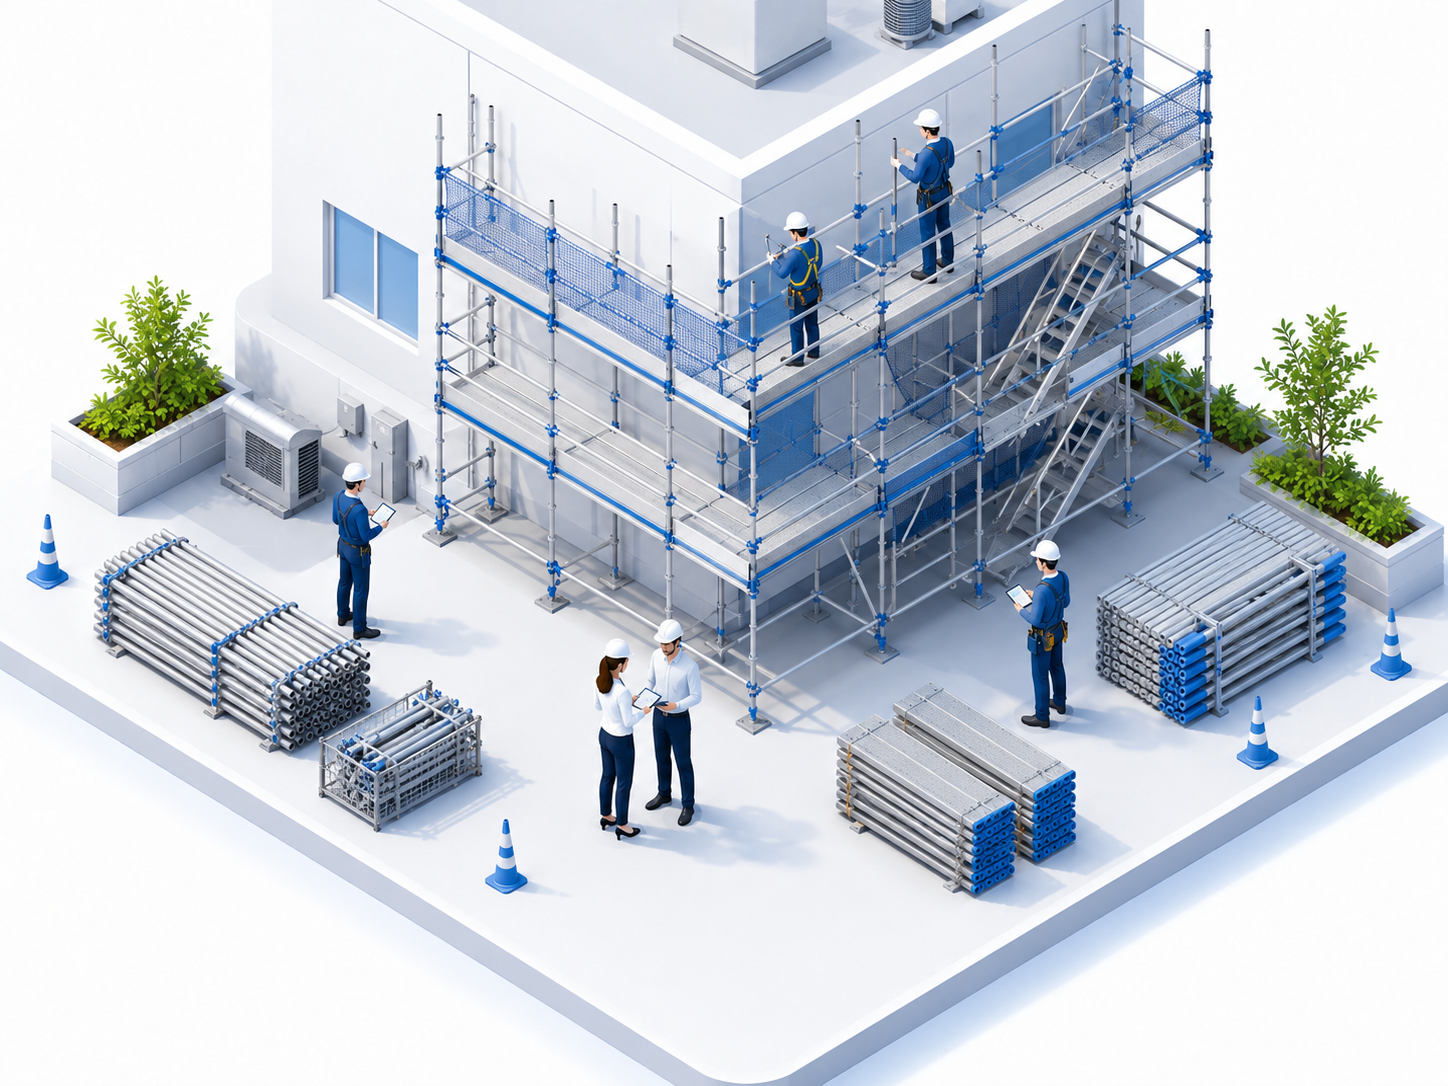
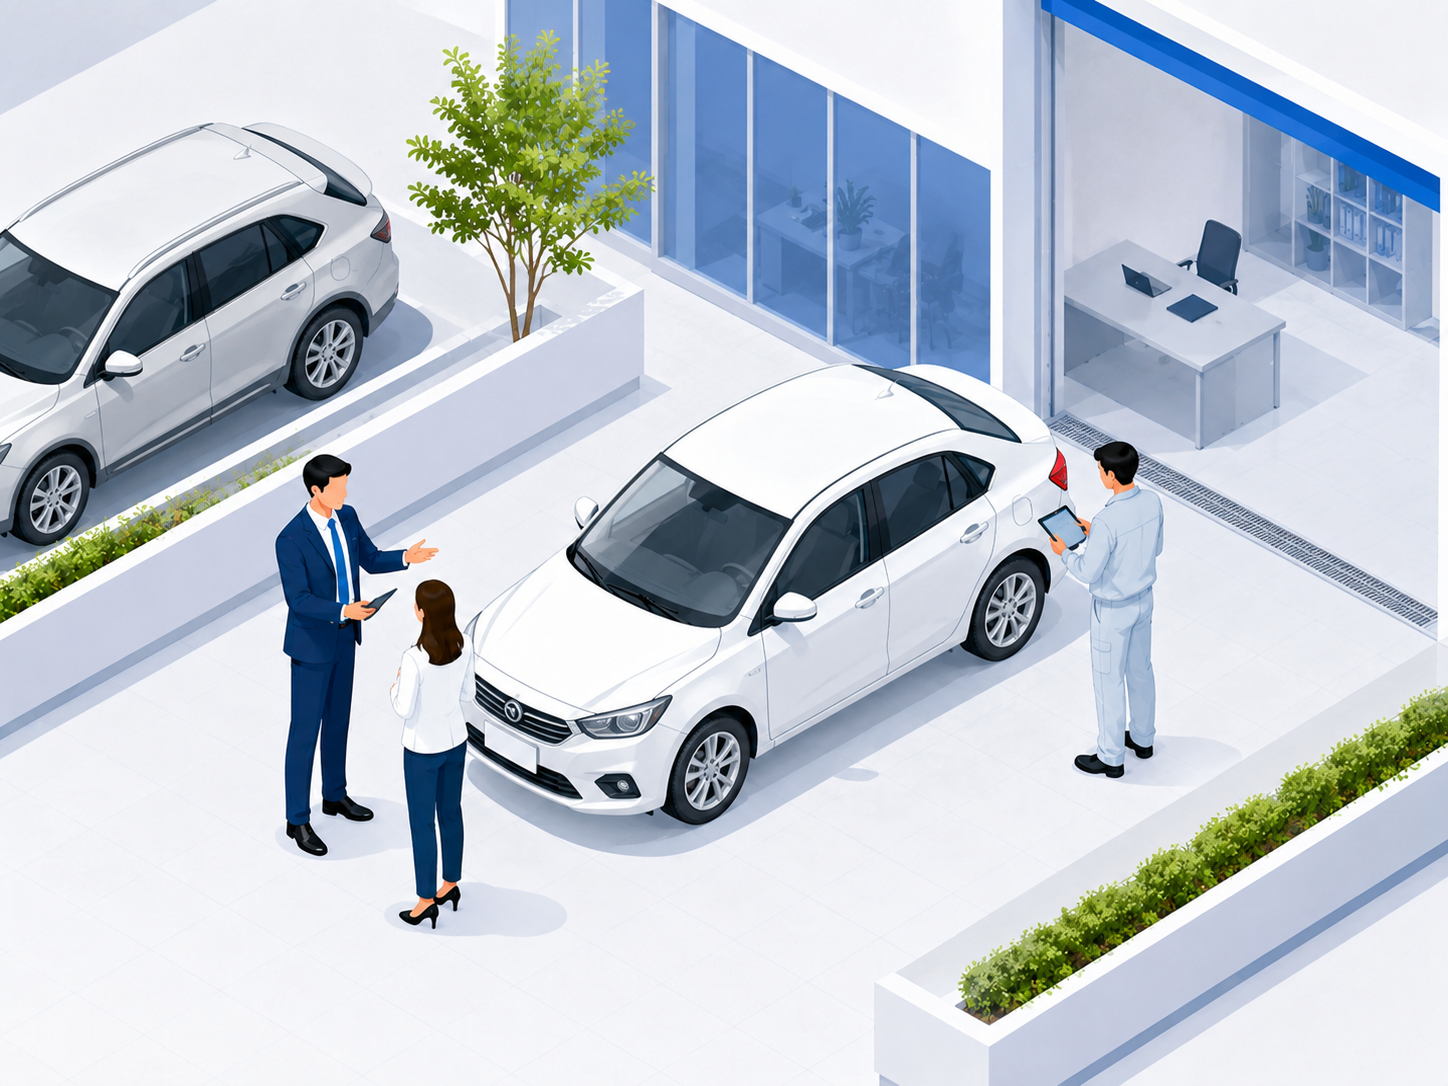
TOP/Serviceの構成調整とSolvia紹介カード実装

diff --git a/index.html b/index.html
@@ -242,13 +242,17 @@
     .section-heading { font-family:'Noto Serif JP',serif; font-weight:700; font-size:1.9rem; color:var(--navy); text-align:center; margin-bottom:1.15rem; line-height:1.55; }
     .section-sub { font-size:1rem; font-weight:500; color:var(--g500); text-align:center; margin-bottom:4rem; line-height:1.9; }
     .services-grid { display:grid; grid-template-columns:repeat(3,1fr); gap:2rem; }
+    .service-card-wide { grid-column:1 / -1; }
     .service-card { display:flex; flex-direction:column; justify-content:space-between; }
     .service-card-body { background:#fff; border:1px solid #dbe4ee; border-radius:10px; overflow:hidden; margin-bottom:.8rem; flex:1; display:flex; flex-direction:column; box-shadow:0 2px 6px rgba(18,48,84,.04); transition:transform .3s ease, box-shadow .3s ease, border-color .3s ease; }
     .service-photo { width:100%; height:192px; object-fit:cover; flex-shrink:0; transition:transform .3s ease; }
     .service-info { padding:20px 20px 12px; flex:1; display:flex; flex-direction:column; justify-content:flex-start; background:#fff; border-bottom:10px solid transparent; }
     .service-info.blue { border-bottom-color:#0F4C81; }
+    .service-info.sky { border-bottom-color:#66A9CF; }
     .service-info.yellow { border-bottom-color:#D8BE6A; }
     .service-info.teal { border-bottom-color:#078C95; }
+    .service-info.coral { border-bottom-color:#C78478; }
+    .service-info.indigo { border-bottom-color:#0F4C81; }
     .service-info.gray { border-bottom-color:#9AA5B1; justify-content:flex-start; }
     #page-top .service-info.s06 {
       border-bottom-color:#6F7EA6;
@@ -263,9 +267,16 @@
     #page-top .service-info.s06 .service-other-list svg path { stroke:#6F7EA6; }
     .service-num { font-family:'Cormorant Garamond',serif; font-size:.75rem; letter-spacing:1.68px; margin-bottom:8px; }
     .service-info.blue .service-num,
+    .service-info.sky .service-num,
     .service-info.yellow .service-num,
     .service-info.teal .service-num,
+    .service-info.coral .service-num,
+    .service-info.indigo .service-num,
     .service-info.gray .service-num { color:#7b8ea5; font-size:.6875rem; letter-spacing:1.5px; }
+    .service-info.sky .service-num { color:#6B98BA; }
+    .service-info.yellow .service-num { color:#A88B3A; }
+    .service-info.teal .service-num { color:#2A7F86; }
+    .service-info.coral .service-num { color:#9B7069; }
     .service-title { font-family:'Noto Serif JP',serif; font-weight:700; font-size:1.15rem; line-height:1.55; margin-bottom:10px; color:var(--navy); }
     .service-desc { font-size:.875rem; line-height:1.72; color:var(--g600); margin-bottom:14px; }
     .service-link { display:inline-flex; align-items:center; gap:4px; font-size:.8125rem; font-weight:500; color:#516476; border-bottom:1px solid #cad7e5; padding:0 0 6px; transition:border-color .28s, color .28s; background:none; border-left:none; border-right:none; border-top:none; margin-top:auto; align-self:flex-end; }
@@ -280,16 +291,31 @@
     .service-card:focus-within .service-photo { transform:scale(1.035); }
     .service-card:hover .service-info.blue,
     .service-card:focus-within .service-info.blue { border-bottom-color:#125891; }
+    .service-card:hover .service-info.sky,
+    .service-card:focus-within .service-info.sky { border-bottom-color:#5D9EC4; }
     .service-card:hover .service-info.yellow,
     .service-card:focus-within .service-info.yellow { border-bottom-color:#dfc677; }
     .service-card:hover .service-info.teal,
     .service-card:focus-within .service-info.teal { border-bottom-color:#0a99a3; }
+    .service-card:hover .service-info.coral,
+    .service-card:focus-within .service-info.coral { border-bottom-color:#B97467; }
+    .service-card:hover .service-info.indigo,
+    .service-card:focus-within .service-info.indigo { border-bottom-color:#125891; }
     .service-card:hover .service-info.gray,
     .service-card:focus-within .service-info.gray { border-bottom-color:#a8b2bd; }
     #page-top .service-card:hover .service-info.s06,
     #page-top .service-card:focus-within .service-info.s06 { border-bottom-color:#7b89b0; }
     .service-card:hover .service-link svg,
     .service-card:focus-within .service-link svg { transform:translateX(3px); }
+    .service-card-wide .service-info { padding-bottom:16px; }
+    .service-info.s07-compact { padding:14px 20px 11px; }
+    .s07-layout { display:grid; grid-template-columns:1.12fr .95fr .95fr auto; gap:18px; align-items:center; }
+    .s07-col-head .service-num { margin-bottom:6px; }
+    .s07-col-head .service-title { margin-bottom:0; line-height:1.45; }
+    .s07-compact .service-other-list { margin:0; }
+    .s07-compact .service-other-list li { padding:3px 0; font-size:.96rem; line-height:1.6; }
+    .s07-link-col { display:flex; align-items:flex-end; justify-content:flex-end; }
+    .s07-link { margin-top:0; align-self:auto; white-space:nowrap; }
 
     /* ===== POINTS ===== */
     .points { position:relative; border-top:1px solid var(--g300); border-bottom:1px solid var(--g300); padding:97px 208px 161px; overflow:hidden; background:linear-gradient(180deg, #f4fbff 0%, #e9f6ff 100%); }
@@ -533,13 +559,13 @@
     .svc-detail__box--points { background:#f7fbff; border-color:#d7e4f0; }
     .svc-detail__list.tight li { font-size:.90625rem; line-height:1.65; }
     /* SERVICE accent system (01-06) */
-    #service-01 { --service-accent:#0f4c81; --service-accent-soft:#f4f8fc; --service-accent-border:#d6e3f0; --service-accent-icon:#2b6b9f; }
+    #service-01 { --service-accent:#66A9CF; --service-accent-soft:#f3f9fd; --service-accent-border:#d4e8f4; --service-accent-icon:#5d9ec4; }
     #service-02 { --service-accent:#d8be6a; --service-accent-soft:#fcf8ee; --service-accent-border:#eadfbd; --service-accent-icon:#a2832f; }
-    #service-03 { --service-accent:#0f4c81; --service-accent-soft:#f4f8fc; --service-accent-border:#d6e3f0; --service-accent-icon:#2b6b9f; }
+    #service-03 { --service-accent:#66A9CF; --service-accent-soft:#f3f9fd; --service-accent-border:#d4e8f4; --service-accent-icon:#5d9ec4; }
     #service-04 { --service-accent:#078c95; --service-accent-soft:#f1fafb; --service-accent-border:#cfe9eb; --service-accent-icon:#12727a; }
-    #service-05 { --service-accent:#078c95; --service-accent-soft:#f1fafb; --service-accent-border:#cfe9eb; --service-accent-icon:#12727a; }
+    #service-05 { --service-accent:#C78478; --service-accent-soft:#fcf6f5; --service-accent-border:#edd9d5; --service-accent-icon:#b97467; }
     #service-06 {
-      --service-accent:#8b97b8;
+      --service-accent:#6F7EA6;
       --service-accent-soft:#f4f6fb;
       --service-accent-border:#d8dfec;
       --service-accent-icon:#6f7ea6;
@@ -615,13 +641,125 @@
     #page-service .svc01-body .svc-detail__img-panel-text { color:#556678; line-height:1.9; font-size:.9375rem; }
     #service-06 .svc01-body { align-items:start; }
     #service-06 .svc01-body .svc-detail__img { align-self:start; }
-    #service-06 .svc01-body .svc-detail__img { border-color:#fff; }
+    #service-06 .svc01-body .svc-detail__img { border-color:var(--service-accent-border); }
     #service-06 .svc01-body .svc-detail__img { padding:10px 10px 20px; background:#fff; }
     #service-06 .svc01-body .svc-detail__img img { height:auto; object-fit:contain; transform:scale(1.06); transform-origin:center center; }
     #service-06.svc-detail { border-bottom:none; }
     #service-01.svc-detail { padding-bottom:68px; }
+    #service-05 .svc-partner-cta {
+      margin-top:12px;
+      padding:12px 14px 12px 46px;
+      min-height:108px;
+      border:1px solid color-mix(in srgb, var(--service-accent-border) 84%, #fff 16%);
+      border-left:none;
+      border-radius:7px;
+      background:#fff;
+      position:relative;
+      overflow:hidden;
+    }
+    #service-05 .svc-partner-label {
+      position:absolute;
+      left:0;
+      top:0;
+      bottom:0;
+      width:34px;
+      margin:0;
+      writing-mode:vertical-rl;
+      text-orientation:mixed;
+      display:flex;
+      align-items:center;
+      justify-content:center;
+      padding:8px 0;
+      font-size:.66rem;
+      letter-spacing:.08em;
+      font-weight:700;
+      line-height:1.2;
+      color:#fff;
+      background:color-mix(in srgb, var(--service-accent) 88%, #fff 12%);
+      border-radius:0;
+    }
+    #service-05 .svc-partner-card {
+      display:grid;
+      grid-template-columns:120px 1fr;
+      gap:12px;
+      align-items:center;
+      margin-top:8px;
+    }
+    #service-05 .svc-partner-info {
+      display:flex;
+      flex-direction:column;
+      justify-content:center;
+    }
+    #service-05 .svc-partner-logo {
+      border:none;
+      border-radius:6px;
+      background:#fff;
+      padding:6px;
+    }
+    #service-05 .svc-partner-logo img {
+      display:block;
+      width:100%;
+      height:auto;
+    }
+    #service-05 .svc-partner-name {
+      font-size:.94rem;
+      font-weight:700;
+      color:#3d4f62;
+      line-height:1.4;
+      margin-bottom:4px;
+      white-space:nowrap;
+    }
+    #service-05 .svc-partner-desc {
+      font-size:.875rem;
+      color:#5f6f83;
+      line-height:1.62;
+      margin-bottom:8px;
+    }
+    #service-05 .svc-partner-link {
+      display:inline-flex;
+      align-items:center;
+      gap:4px;
+      font-size:.86rem;
+      font-weight:600;
+      color:#8f5e57;
+      text-decoration:underline;
+      text-decoration-color:color-mix(in srgb, var(--service-accent-border) 88%, #fff 12%);
+      text-underline-offset:4px;
+      text-decoration-thickness:1px;
+    }
+    #service-05 .svc-partner-link:hover {
+      color:#81534d;
+      text-decoration-color:color-mix(in srgb, var(--service-accent) 42%, #fff 58%);
+    }
+    #service-05 .svc-partner-link:focus-visible {
+      outline:2px solid color-mix(in srgb, var(--service-accent) 52%, #fff 48%);
+      outline-offset:2px;
+      border-radius:2px;
+    }
+    @media (max-width:768px) {
+      #service-05 .svc-partner-cta {
+        padding-left:44px;
+      }
+      #service-05 .svc-partner-card {
+        grid-template-columns:1fr;
+        gap:10px;
+      }
+      #service-05 .svc-partner-logo {
+        max-width:180px;
+      }
+    }
     .svc-note { background:var(--g100); border:1px solid var(--g300); border-radius:6px; padding:16px 20px; font-size:.875rem; color:var(--g600); line-height:1.7; }
     .svc-note strong { display:block; font-size:.875rem; color:var(--navy); margin-bottom:4px; }
+    #page-service .svc-note.svc-note--web {
+      background:#f4f8fc;
+      border-color:#d6e3f0;
+      border-left:3px solid #3F6692;
+    }
+    #page-service .svc-note.svc-note--web a {
+      color:#2f5c8d;
+      text-decoration-color:#9db7d4;
+      text-underline-offset:3px;
+    }
 
     /* ===== ABOUT PAGE ===== */
     .about-story {
@@ -829,6 +967,10 @@
       .problems-grid { grid-template-columns:1fr; }
       .services { padding:60px 40px; }
       .services-grid { grid-template-columns:1fr 1fr; }
+      .service-card-wide { grid-column:1 / -1; }
+      .s07-layout { grid-template-columns:1fr 1fr; gap:14px 20px; align-items:start; }
+      .s07-col-head { grid-column:1 / -1; }
+      .s07-link-col { grid-column:1 / -1; justify-content:flex-start; }
       .points { padding:60px 40px 80px; }
       .points-flow { flex-direction:column; }
       .points-arrow { transform:rotate(90deg); }
@@ -946,6 +1088,11 @@
       .points-box-list { gap:8px; }
       .points-box-list li { font-size:.9rem; line-height:1.65; }
       .services-grid { grid-template-columns:1fr; }
+      .service-card-wide { grid-column:auto; }
+      .s07-layout { grid-template-columns:1fr; gap:8px; }
+      .s07-col-head { grid-column:auto; }
+      .service-info.s07-compact { padding:12px 14px 10px; }
+      .s07-link-col { grid-column:auto; justify-content:flex-start; }
       .flow-card { padding:26px 20px; }
       .flow-step { grid-template-columns:60px 108px minmax(0,1fr); justify-content:center; column-gap:14px; padding:18px 0 22px; }
       .flow-step-num, .flow-step-media { min-height:111px; }
@@ -1327,12 +1474,13 @@
     <h2 class="section-heading">対応可能な相談領域</h2>
     <p class="section-sub">産廃・リサイクル、工事・設備を中心に<br class="sp-only">幅広くご相談いただけます</p>
     <div class="services-grid">
-      <div class="service-card"><div class="service-card-body"><img src="assets/service_01.png" alt="建設廃材・焼却物処分" class="service-photo"><div class="service-info blue"><div class="service-num">SERVICE 01</div><h3 class="service-title">建設廃材・焼却物処分</h3><p class="service-desc">処分先・相談先のご案内</p><button onclick="navigate('service','service-01')" class="service-link">詳細を見る <svg width="16" height="16" viewBox="0 0 16 16" fill="none"><path d="M3 8h10M9 4.5l4 3.5-4 3.5" stroke="#516476" stroke-width="1.5" stroke-linecap="round" stroke-linejoin="round"/></svg></button></div></div></div>
+      <div class="service-card"><div class="service-card-body"><img src="assets/service_01.png" alt="建設廃材・焼却物処分" class="service-photo"><div class="service-info sky"><div class="service-num">SERVICE 01</div><h3 class="service-title">建設廃材・焼却物処分</h3><p class="service-desc">処分先・相談先のご案内</p><button onclick="navigate('service','service-01')" class="service-link">詳細を見る <svg width="16" height="16" viewBox="0 0 16 16" fill="none"><path d="M3 8h10M9 4.5l4 3.5-4 3.5" stroke="#516476" stroke-width="1.5" stroke-linecap="round" stroke-linejoin="round"/></svg></button></div></div></div>
       <div class="service-card"><div class="service-card-body"><img src="assets/service_02.png" alt="太陽光パネル関連" class="service-photo"><div class="service-info yellow"><div class="service-num">SERVICE 02</div><h3 class="service-title">太陽光パネル関連</h3><p class="service-desc">設置・撤去・処分に関するご相談</p><button onclick="navigate('service','service-02')" class="service-link">詳細を見る <svg width="16" height="16" viewBox="0 0 16 16" fill="none"><path d="M3 8h10M9 4.5l4 3.5-4 3.5" stroke="#516476" stroke-width="1.5" stroke-linecap="round" stroke-linejoin="round"/></svg></button></div></div></div>
-      <div class="service-card"><div class="service-card-body"><img src="assets/service_03.png" alt="廃油・塩ビ樹脂廃材買取" class="service-photo"><div class="service-info blue"><div class="service-num">SERVICE 03</div><h3 class="service-title">廃油・塩ビ樹脂廃材買取</h3><p class="service-desc">買取・リサイクルに関するご相談</p><button onclick="navigate('service','service-03')" class="service-link">詳細を見る <svg width="16" height="16" viewBox="0 0 16 16" fill="none"><path d="M3 8h10M9 4.5l4 3.5-4 3.5" stroke="#516476" stroke-width="1.5" stroke-linecap="round" stroke-linejoin="round"/></svg></button></div></div></div>
+      <div class="service-card"><div class="service-card-body"><img src="assets/service_03.png" alt="廃油・塩ビ樹脂廃材買取" class="service-photo"><div class="service-info sky"><div class="service-num">SERVICE 03</div><h3 class="service-title">廃油・塩ビ樹脂廃材買取</h3><p class="service-desc">買取・リサイクルに関するご相談</p><button onclick="navigate('service','service-03')" class="service-link">詳細を見る <svg width="16" height="16" viewBox="0 0 16 16" fill="none"><path d="M3 8h10M9 4.5l4 3.5-4 3.5" stroke="#516476" stroke-width="1.5" stroke-linecap="round" stroke-linejoin="round"/></svg></button></div></div></div>
       <div class="service-card"><div class="service-card-body"><img src="assets/service_04.png" alt="電気工事" class="service-photo"><div class="service-info teal"><div class="service-num">SERVICE 04</div><h3 class="service-title">電気工事</h3><p class="service-desc">設備まわりの工事相談・依頼先のご案内</p><button onclick="navigate('service','service-04')" class="service-link">詳細を見る <svg width="16" height="16" viewBox="0 0 16 16" fill="none"><path d="M3 8h10M9 4.5l4 3.5-4 3.5" stroke="#516476" stroke-width="1.5" stroke-linecap="round" stroke-linejoin="round"/></svg></button></div></div></div>
-      <div class="service-card"><div class="service-card-body"><img src="assets/service_05.png" alt="足場工事" class="service-photo"><div class="service-info teal"><div class="service-num">SERVICE 05</div><h3 class="service-title">足場工事</h3><p class="service-desc">足場計画や施工相談・依頼先のご案内</p><button onclick="navigate('service','service-05')" class="service-link">詳細を見る <svg width="16" height="16" viewBox="0 0 16 16" fill="none"><path d="M3 8h10M9 4.5l4 3.5-4 3.5" stroke="#516476" stroke-width="1.5" stroke-linecap="round" stroke-linejoin="round"/></svg></button></div></div></div>
-      <div class="service-card"><div class="service-card-body"><div class="service-info gray s06"><div class="service-num">SERVICE 06</div><h3 class="service-title">その他の相談領域</h3><ul class="service-other-list"><li><svg width="16" height="16" viewBox="0 0 16 16" fill="none"><circle cx="8" cy="8" r="7" stroke="#2d83cc" stroke-width="1.2"/><path d="M5 8l2 2 4-4" stroke="#2d83cc" stroke-width="1.2" stroke-linecap="round" stroke-linejoin="round"/></svg>お片付け</li><li><svg width="16" height="16" viewBox="0 0 16 16" fill="none"><circle cx="8" cy="8" r="7" stroke="#2d83cc" stroke-width="1.2"/><path d="M5 8l2 2 4-4" stroke="#2d83cc" stroke-width="1.2" stroke-linecap="round" stroke-linejoin="round"/></svg>粗大ゴミ回収</li><li><svg width="16" height="16" viewBox="0 0 16 16" fill="none"><circle cx="8" cy="8" r="7" stroke="#2d83cc" stroke-width="1.2"/><path d="M5 8l2 2 4-4" stroke="#2d83cc" stroke-width="1.2" stroke-linecap="round" stroke-linejoin="round"/></svg>遺品整理</li><li><svg width="16" height="16" viewBox="0 0 16 16" fill="none"><circle cx="8" cy="8" r="7" stroke="#2d83cc" stroke-width="1.2"/><path d="M5 8l2 2 4-4" stroke="#2d83cc" stroke-width="1.2" stroke-linecap="round" stroke-linejoin="round"/></svg>中古車関連事業</li><li><svg width="16" height="16" viewBox="0 0 16 16" fill="none"><circle cx="8" cy="8" r="7" stroke="#2d83cc" stroke-width="1.2"/><path d="M5 8l2 2 4-4" stroke="#2d83cc" stroke-width="1.2" stroke-linecap="round" stroke-linejoin="round"/></svg>WEB制作（HP・バナー・LP）</li></ul><button onclick="navigate('service','service-06')" class="service-link">詳細を見る <svg width="16" height="16" viewBox="0 0 16 16" fill="none"><path d="M3 8h10M9 4.5l4 3.5-4 3.5" stroke="#516476" stroke-width="1.5" stroke-linecap="round" stroke-linejoin="round"/></svg></button></div></div></div>
+      <div class="service-card"><div class="service-card-body"><img src="assets/service_05.png" alt="中古車販売・買取" class="service-photo"><div class="service-info coral"><div class="service-num">SERVICE 05</div><h3 class="service-title">中古車販売・買取</h3><p class="service-desc">購入・買い替え・買取のご相談</p><button onclick="navigate('service','service-05')" class="service-link">詳細を見る <svg width="16" height="16" viewBox="0 0 16 16" fill="none"><path d="M3 8h10M9 4.5l4 3.5-4 3.5" stroke="#516476" stroke-width="1.5" stroke-linecap="round" stroke-linejoin="round"/></svg></button></div></div></div>
+      <div class="service-card"><div class="service-card-body"><img src="assets/service_06.png" alt="WEB制作" class="service-photo"><div class="service-info indigo"><div class="service-num">SERVICE 06</div><h3 class="service-title">WEB制作</h3><p class="service-desc">HP・バナー・LP制作のご相談</p><a href="web-production.html" class="service-link">詳細を見る <svg width="16" height="16" viewBox="0 0 16 16" fill="none"><path d="M3 8h10M9 4.5l4 3.5-4 3.5" stroke="#516476" stroke-width="1.5" stroke-linecap="round" stroke-linejoin="round"/></svg></a></div></div></div>
+      <div class="service-card service-card-wide"><div class="service-card-body"><div class="service-info gray s06 s07-compact"><div class="s07-layout"><div class="s07-col s07-col-head"><div class="service-num">SERVICE 07</div><h3 class="service-title">その他の相談領域</h3></div><div class="s07-col"><ul class="service-other-list"><li><svg width="16" height="16" viewBox="0 0 16 16" fill="none"><circle cx="8" cy="8" r="7" stroke="#2d83cc" stroke-width="1.2"/><path d="M5 8l2 2 4-4" stroke="#2d83cc" stroke-width="1.2" stroke-linecap="round" stroke-linejoin="round"/></svg>足場工事</li><li><svg width="16" height="16" viewBox="0 0 16 16" fill="none"><circle cx="8" cy="8" r="7" stroke="#2d83cc" stroke-width="1.2"/><path d="M5 8l2 2 4-4" stroke="#2d83cc" stroke-width="1.2" stroke-linecap="round" stroke-linejoin="round"/></svg>粗大ゴミ回収</li></ul></div><div class="s07-col"><ul class="service-other-list"><li><svg width="16" height="16" viewBox="0 0 16 16" fill="none"><circle cx="8" cy="8" r="7" stroke="#2d83cc" stroke-width="1.2"/><path d="M5 8l2 2 4-4" stroke="#2d83cc" stroke-width="1.2" stroke-linecap="round" stroke-linejoin="round"/></svg>お片付け</li><li><svg width="16" height="16" viewBox="0 0 16 16" fill="none"><circle cx="8" cy="8" r="7" stroke="#2d83cc" stroke-width="1.2"/><path d="M5 8l2 2 4-4" stroke="#2d83cc" stroke-width="1.2" stroke-linecap="round" stroke-linejoin="round"/></svg>遺品整理</li></ul></div><div class="s07-link-col"><button onclick="navigate('service','service-06')" class="service-link s07-link">詳細を見る <svg width="16" height="16" viewBox="0 0 16 16" fill="none"><path d="M3 8h10M9 4.5l4 3.5-4 3.5" stroke="#516476" stroke-width="1.5" stroke-linecap="round" stroke-linejoin="round"/></svg></button></div></div></div></div></div>
     </div>
   </div>
 </section>
@@ -1462,7 +1610,7 @@
 <!-- ================= SERVICEページ ================= -->
 <div id="page-service" class="page-content hidden">
   <div class="pg-hero"><span class="pg-hero__en">SERVICE</span><span class="pg-hero__ja">相談できること</span></div>
-  <div class="svc-intro"><h2><span class="svc-intro-main">産廃・リサイクル、<br class="sp-only">工事・設備</span><span class="svc-intro-tail">まわりの</span><br class="pc-only">「どこに相談すればいい？」<br class="sp-only">を整理してつなぎます。</h2><p>建設廃材・焼却物処分、太陽光パネル関連、廃油・塩ビ樹脂廃材買取、電気工事、足場工事を中心に、事業者様のお困りごとを丁寧にヒアリングし、内容に応じて必要な専門事業者・提携先へおつなぎします。</p></div>
+  <div class="svc-intro"><h2><span class="svc-intro-main">産廃・リサイクル、<br class="sp-only">工事・設備</span><span class="svc-intro-tail">まわりの</span><br class="pc-only">「どこに相談すればいい？」<br class="sp-only">を整理してつなぎます。</h2><p>建設廃材・焼却物処分、太陽光パネル関連、廃油・塩ビ樹脂廃材買取、電気工事、中古車販売・買取を中心に、事業者様のお困りごとを丁寧にヒアリングし、内容に応じて必要な専門事業者・提携先へおつなぎします。</p></div>
 
   <div id="service-01" class="svc-detail">
     <div class="svc-detail__inner">
@@ -1612,31 +1760,45 @@
     <div class="svc-detail__inner">
       <div class="svc-detail__body svc01-head">
         <span class="svc-detail__num">SERVICE 05</span>
-        <h3 class="svc-detail__title">足場工事</h3>
-        <p class="svc-detail__desc">工事現場や建物まわりの足場工事について、条件や現場状況を整理し、対応可能な専門先へおつなぎします。</p>
+        <h3 class="svc-detail__title">中古車販売・買取</h3>
+        <p class="svc-detail__desc">中古車の購入・買い替え・買取について、条件やご希望を整理し、対応可能な専門先へおつなぎします。ご相談内容に応じて、株式会社Solviaオート商会をご紹介します。</p>
       </div>
       <div class="svc01-body">
-        <div class="svc-detail__img">
-          <img src="assets/service_05.png" alt="足場工事">
+        <div>
+          <div class="svc-detail__img">
+            <img src="assets/service_05.png" alt="中古車販売・買取">
+          </div>
+          <div class="svc-partner-cta">
+            <span class="svc-partner-label">提携・ご紹介先</span>
+            <div class="svc-partner-card">
+              <div class="svc-partner-logo">
+                <img src="assets/solvia_2.webp" alt="株式会社Solviaオート商会 ロゴ">
+              </div>
+              <div class="svc-partner-info">
+                <div class="svc-partner-name">株式会社Solviaオート商会</div>
+                <a href="https://www.solviainfo.jp/" target="_blank" rel="noopener noreferrer" class="svc-partner-link">公式サイトを見る →</a>
+              </div>
+            </div>
+          </div>
         </div>
         <div class="svc-detail__stack">
           <div class="svc-detail__box">
             <div class="svc-detail__box-label">こんなご相談に対応しています</div>
             <ul class="svc-detail__list tight">
-              <li><svg width="16" height="16" viewBox="0 0 16 16" fill="none"><circle cx="8" cy="8" r="7" stroke="#2d83cc" stroke-width="1.2"/><path d="M5 8l2 2 4-4" stroke="#2d83cc" stroke-width="1.2" stroke-linecap="round" stroke-linejoin="round"/></svg>足場工事の依頼先を探している</li>
-              <li><svg width="16" height="16" viewBox="0 0 16 16" fill="none"><circle cx="8" cy="8" r="7" stroke="#2d83cc" stroke-width="1.2"/><path d="M5 8l2 2 4-4" stroke="#2d83cc" stroke-width="1.2" stroke-linecap="round" stroke-linejoin="round"/></svg>現場に必要な足場の内容を相談したい</li>
-              <li><svg width="16" height="16" viewBox="0 0 16 16" fill="none"><circle cx="8" cy="8" r="7" stroke="#2d83cc" stroke-width="1.2"/><path d="M5 8l2 2 4-4" stroke="#2d83cc" stroke-width="1.2" stroke-linecap="round" stroke-linejoin="round"/></svg>工事条件に合う専門事業者を探している</li>
-              <li><svg width="16" height="16" viewBox="0 0 16 16" fill="none"><circle cx="8" cy="8" r="7" stroke="#2d83cc" stroke-width="1.2"/><path d="M5 8l2 2 4-4" stroke="#2d83cc" stroke-width="1.2" stroke-linecap="round" stroke-linejoin="round"/></svg>見積もり前に条件を整理したい</li>
+              <li><svg width="16" height="16" viewBox="0 0 16 16" fill="none"><circle cx="8" cy="8" r="7" stroke="#2d83cc" stroke-width="1.2"/><path d="M5 8l2 2 4-4" stroke="#2d83cc" stroke-width="1.2" stroke-linecap="round" stroke-linejoin="round"/></svg>中古車を探している</li>
+              <li><svg width="16" height="16" viewBox="0 0 16 16" fill="none"><circle cx="8" cy="8" r="7" stroke="#2d83cc" stroke-width="1.2"/><path d="M5 8l2 2 4-4" stroke="#2d83cc" stroke-width="1.2" stroke-linecap="round" stroke-linejoin="round"/></svg>車を買い替えたい</li>
+              <li><svg width="16" height="16" viewBox="0 0 16 16" fill="none"><circle cx="8" cy="8" r="7" stroke="#2d83cc" stroke-width="1.2"/><path d="M5 8l2 2 4-4" stroke="#2d83cc" stroke-width="1.2" stroke-linecap="round" stroke-linejoin="round"/></svg>今の車を売りたい</li>
+              <li><svg width="16" height="16" viewBox="0 0 16 16" fill="none"><circle cx="8" cy="8" r="7" stroke="#2d83cc" stroke-width="1.2"/><path d="M5 8l2 2 4-4" stroke="#2d83cc" stroke-width="1.2" stroke-linecap="round" stroke-linejoin="round"/></svg>条件に合う車を相談したい</li>
             </ul>
           </div>
           <div class="svc-detail__box svc-detail__box--points">
             <div class="svc-detail__box-label">整理するポイント</div>
             <ul class="svc-detail__list tight">
-              <li><svg width="16" height="16" viewBox="0 0 16 16" fill="none"><circle cx="8" cy="8" r="7" stroke="#2d83cc" stroke-width="1.2"/><path d="M5 8l2 2 4-4" stroke="#2d83cc" stroke-width="1.2" stroke-linecap="round" stroke-linejoin="round"/></svg>建物や現場の種類</li>
-              <li><svg width="16" height="16" viewBox="0 0 16 16" fill="none"><circle cx="8" cy="8" r="7" stroke="#2d83cc" stroke-width="1.2"/><path d="M5 8l2 2 4-4" stroke="#2d83cc" stroke-width="1.2" stroke-linecap="round" stroke-linejoin="round"/></svg>足場が必要な範囲</li>
-              <li><svg width="16" height="16" viewBox="0 0 16 16" fill="none"><circle cx="8" cy="8" r="7" stroke="#2d83cc" stroke-width="1.2"/><path d="M5 8l2 2 4-4" stroke="#2d83cc" stroke-width="1.2" stroke-linecap="round" stroke-linejoin="round"/></svg>作業場所や周辺環境</li>
-              <li><svg width="16" height="16" viewBox="0 0 16 16" fill="none"><circle cx="8" cy="8" r="7" stroke="#2d83cc" stroke-width="1.2"/><path d="M5 8l2 2 4-4" stroke="#2d83cc" stroke-width="1.2" stroke-linecap="round" stroke-linejoin="round"/></svg>希望時期や工期</li>
-              <li><svg width="16" height="16" viewBox="0 0 16 16" fill="none"><circle cx="8" cy="8" r="7" stroke="#2d83cc" stroke-width="1.2"/><path d="M5 8l2 2 4-4" stroke="#2d83cc" stroke-width="1.2" stroke-linecap="round" stroke-linejoin="round"/></svg>安全面で確認が必要な内容</li>
+              <li><svg width="16" height="16" viewBox="0 0 16 16" fill="none"><circle cx="8" cy="8" r="7" stroke="#2d83cc" stroke-width="1.2"/><path d="M5 8l2 2 4-4" stroke="#2d83cc" stroke-width="1.2" stroke-linecap="round" stroke-linejoin="round"/></svg>希望車種・用途</li>
+              <li><svg width="16" height="16" viewBox="0 0 16 16" fill="none"><circle cx="8" cy="8" r="7" stroke="#2d83cc" stroke-width="1.2"/><path d="M5 8l2 2 4-4" stroke="#2d83cc" stroke-width="1.2" stroke-linecap="round" stroke-linejoin="round"/></svg>ご予算</li>
+              <li><svg width="16" height="16" viewBox="0 0 16 16" fill="none"><circle cx="8" cy="8" r="7" stroke="#2d83cc" stroke-width="1.2"/><path d="M5 8l2 2 4-4" stroke="#2d83cc" stroke-width="1.2" stroke-linecap="round" stroke-linejoin="round"/></svg>年式・走行距離</li>
+              <li><svg width="16" height="16" viewBox="0 0 16 16" fill="none"><circle cx="8" cy="8" r="7" stroke="#2d83cc" stroke-width="1.2"/><path d="M5 8l2 2 4-4" stroke="#2d83cc" stroke-width="1.2" stroke-linecap="round" stroke-linejoin="round"/></svg>車検の有無</li>
+              <li><svg width="16" height="16" viewBox="0 0 16 16" fill="none"><circle cx="8" cy="8" r="7" stroke="#2d83cc" stroke-width="1.2"/><path d="M5 8l2 2 4-4" stroke="#2d83cc" stroke-width="1.2" stroke-linecap="round" stroke-linejoin="round"/></svg>買取・下取りの希望</li>
             </ul>
           </div>
         </div>
@@ -1659,11 +1821,10 @@
           <div class="svc-detail__box">
             <div class="svc-detail__box-label">こんなご相談に対応しています</div>
             <ul class="svc-detail__list tight">
-              <li><svg width="16" height="16" viewBox="0 0 16 16" fill="none"><circle cx="8" cy="8" r="7" stroke="#2d83cc" stroke-width="1.2"/><path d="M5 8l2 2 4-4" stroke="#2d83cc" stroke-width="1.2" stroke-linecap="round" stroke-linejoin="round"/></svg>お片付けについて相談したい</li>
+              <li><svg width="16" height="16" viewBox="0 0 16 16" fill="none"><circle cx="8" cy="8" r="7" stroke="#2d83cc" stroke-width="1.2"/><path d="M5 8l2 2 4-4" stroke="#2d83cc" stroke-width="1.2" stroke-linecap="round" stroke-linejoin="round"/></svg>足場工事について相談したい</li>
               <li><svg width="16" height="16" viewBox="0 0 16 16" fill="none"><circle cx="8" cy="8" r="7" stroke="#2d83cc" stroke-width="1.2"/><path d="M5 8l2 2 4-4" stroke="#2d83cc" stroke-width="1.2" stroke-linecap="round" stroke-linejoin="round"/></svg>粗大ゴミ回収の依頼先を探している</li>
+              <li><svg width="16" height="16" viewBox="0 0 16 16" fill="none"><circle cx="8" cy="8" r="7" stroke="#2d83cc" stroke-width="1.2"/><path d="M5 8l2 2 4-4" stroke="#2d83cc" stroke-width="1.2" stroke-linecap="round" stroke-linejoin="round"/></svg>お片付けについて相談したい</li>
               <li><svg width="16" height="16" viewBox="0 0 16 16" fill="none"><circle cx="8" cy="8" r="7" stroke="#2d83cc" stroke-width="1.2"/><path d="M5 8l2 2 4-4" stroke="#2d83cc" stroke-width="1.2" stroke-linecap="round" stroke-linejoin="round"/></svg>遺品整理について相談したい</li>
-              <li><svg width="16" height="16" viewBox="0 0 16 16" fill="none"><circle cx="8" cy="8" r="7" stroke="#2d83cc" stroke-width="1.2"/><path d="M5 8l2 2 4-4" stroke="#2d83cc" stroke-width="1.2" stroke-linecap="round" stroke-linejoin="round"/></svg>中古車関連事業について相談したい</li>
-              <li><svg width="16" height="16" viewBox="0 0 16 16" fill="none"><circle cx="8" cy="8" r="7" stroke="#2d83cc" stroke-width="1.2"/><path d="M5 8l2 2 4-4" stroke="#2d83cc" stroke-width="1.2" stroke-linecap="round" stroke-linejoin="round"/></svg>WEB制作やバナー・LPについて相談したい</li>
             </ul>
           </div>
           <div class="svc-detail__box svc-detail__box--points">
@@ -1678,6 +1839,12 @@
           </div>
         </div>
       </div>
+    </div>
+  </div>
+
+  <div class="svc-note-wrap" style="max-width:900px;margin:0 auto 28px;padding:0 40px">
+    <div class="svc-note svc-note--web">
+      <strong>WEB制作について</strong>詳細ページを準備中です。<a href="web-production.html">WEB制作について詳しくはこちら</a>
     </div>
   </div>
 